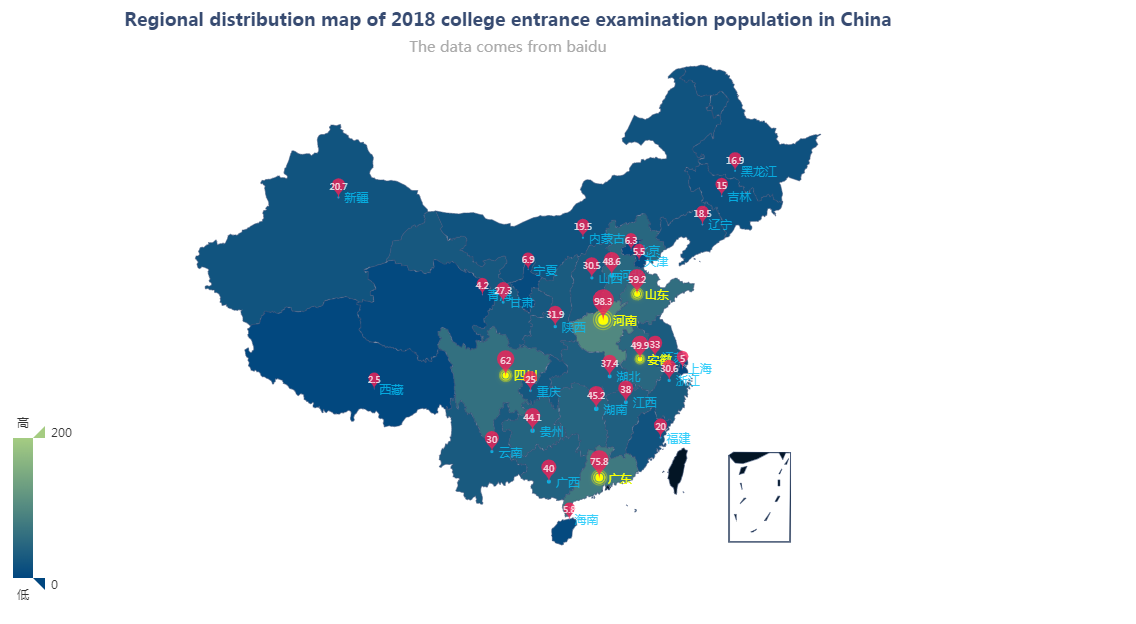
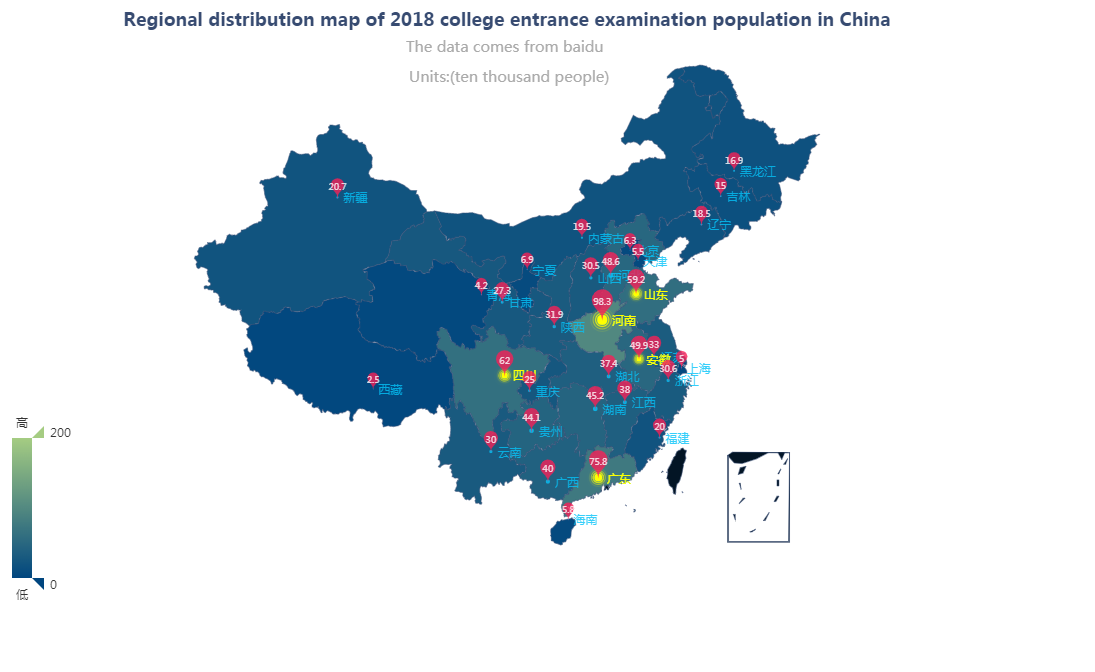
Modifying Data

diff --git a/Echarts/js/demo.js b/Echarts/js/demo.js
@@ -1,6 +1,6 @@
 var myChart = echarts.init(document.getElementById('map-wrap'));
 var name_title = "Regional distribution map of 2018 college entrance examination population in China"
-var subname = 'The data comes from baidu'
+var subname = 'The data comes from baidu \n \n Units:(ten thousand people)'
 var nameColor = " rgb(55, 75, 113)"
 var name_fontFamily = '等线'
 var subname_fontSize = 15
